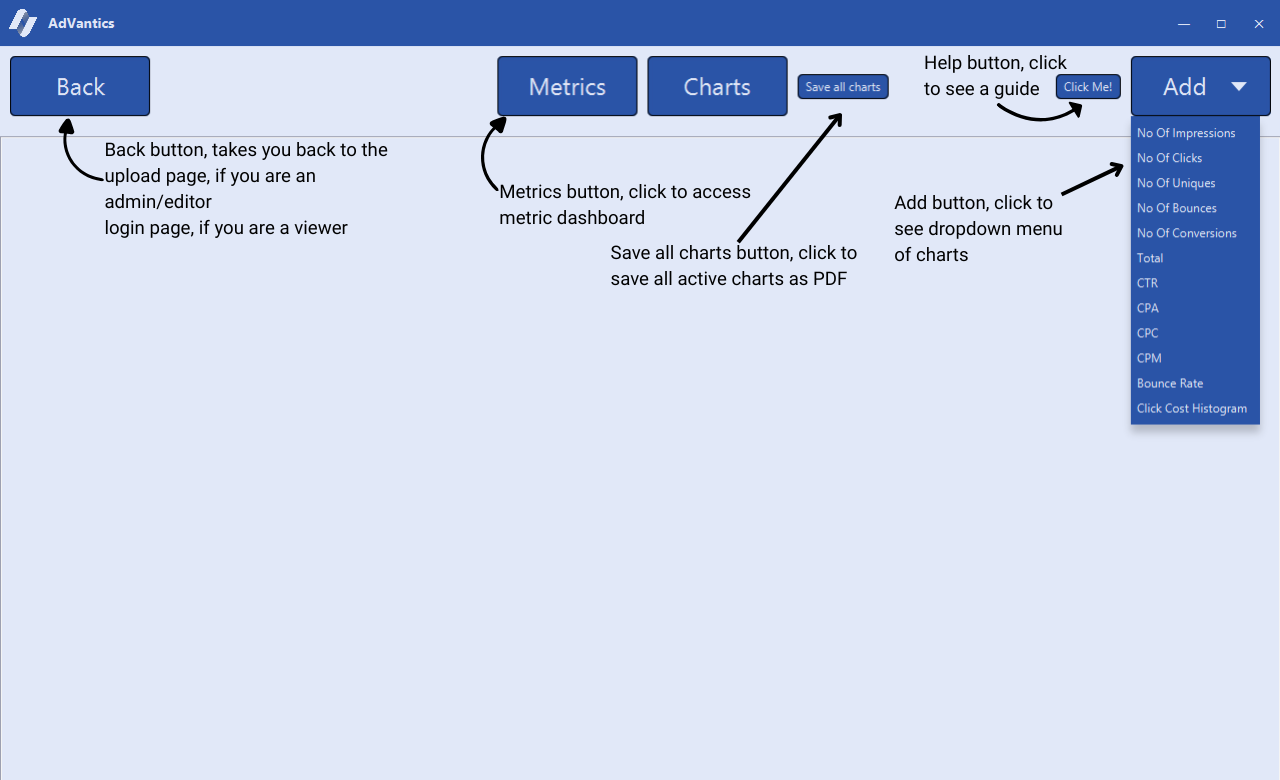
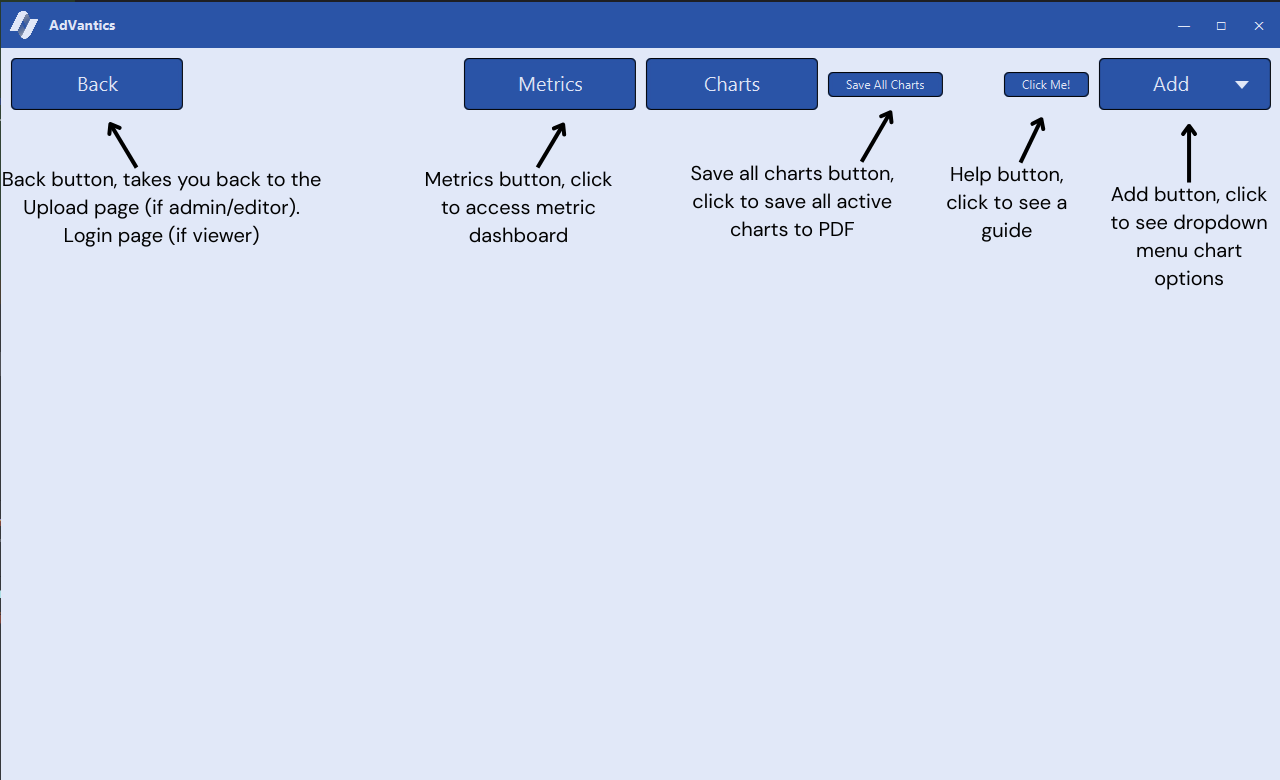
fix: x-axis overcrowding fix and guide pics updated

Changed region(s): [[0.3125, 0.0, 1.0, 0.5538], [0.0, 0.0, 0.3125, 0.3385]]

diff --git a/src/main/java/com/university/grp20/controller/HelpGuideController.java b/src/main/java/com/university/grp20/controller/HelpGuideController.java
@@ -34,14 +34,14 @@ public class HelpGuideController {
         switch (pageType) {
             case "Login" -> {
                 imageList.add(new Image(String.valueOf(getClass().getResource("/images/guide-pics/login-pane/1. Login Page.png"))));
-                imageList.add(new Image(String.valueOf(getClass().getResource("/images/guide-pics/login-pane/2. Login Page w Deets.png"))));
+                imageList.add(new Image(String.valueOf(getClass().getResource("/images/guide-pics/login-pane/2. Login Page Filled.png"))));
                 numImg = imageList.size();
             }
             case "Upload" -> {
-                imageList.add(new Image(String.valueOf(getClass().getResource("/images/guide-pics/file-upload-pane/1. File Upload Page.png"))));
-                imageList.add(new Image(String.valueOf(getClass().getResource("/images/guide-pics/file-upload-pane/2. File Upload Chooser.png"))));
-                imageList.add(new Image(String.valueOf(getClass().getResource("/images/guide-pics/file-upload-pane/3. File Upload Page Completed.png"))));
-                imageList.add(new Image(String.valueOf(getClass().getResource("/images/guide-pics/file-upload-pane/4. Upload in progress.png"))));
+                imageList.add(new Image(String.valueOf(getClass().getResource("/images/guide-pics/file-upload-pane/1. Upload Page.png"))));
+                imageList.add(new Image(String.valueOf(getClass().getResource("/images/guide-pics/file-upload-pane/2. Windows File Explorer.png"))));
+                imageList.add(new Image(String.valueOf(getClass().getResource("/images/guide-pics/file-upload-pane/3. Upload Page Filled.png"))));
+                imageList.add(new Image(String.valueOf(getClass().getResource("/images/guide-pics/file-upload-pane/4. Upload Page Progress Bar.png"))));
                 numImg = imageList.size();
             }
             case "Metrics" -> {
@@ -50,20 +50,22 @@ public class HelpGuideController {
             }
             case "Charts" -> {
                 imageList.add(new Image(String.valueOf(getClass().getResource("/images/guide-pics/charts-pane/1. Charts Page.png"))));
-                imageList.add(new Image(String.valueOf(getClass().getResource("/images/guide-pics/charts-pane/2. Active Charts.png"))));
-                imageList.add(new Image(String.valueOf(getClass().getResource("/images/guide-pics/charts-pane/3. Histogram Bin Prompt.png"))));
-                imageList.add(new Image(String.valueOf(getClass().getResource("/images/guide-pics/charts-pane/4. Histogram Bin Prompt Filled.png"))));
+                imageList.add(new Image(String.valueOf(getClass().getResource("/images/guide-pics/charts-pane/2. Charts Page with 1 Chart.png"))));
+                imageList.add(new Image(String.valueOf(getClass().getResource("/images/guide-pics/charts-pane/3. Print Chart.png"))));
+                imageList.add(new Image(String.valueOf(getClass().getResource("/images/guide-pics/charts-pane/4. Histogram Bin Prompt.png"))));
                 imageList.add(new Image(String.valueOf(getClass().getResource("/images/guide-pics/charts-pane/5. Histogram Displayed.png"))));
                 numImg = imageList.size();
             }
             case "Settings" -> {
-                imageList.add(new Image(String.valueOf(getClass().getResource("/images/guide-pics/settings-pane/1. Settings Page.png"))));
-                imageList.add(new Image(String.valueOf(getClass().getResource("/images/guide-pics/settings-pane/2. Metrics Settings.png"))));
+                imageList.add(new Image(String.valueOf(getClass().getResource("/images/guide-pics/settings-pane/1. Theme Settings.png"))));
+                imageList.add(new Image(String.valueOf(getClass().getResource("/images/guide-pics/settings-pane/2. Metric Settings.png"))));
                 imageList.add(new Image(String.valueOf(getClass().getResource("/images/guide-pics/settings-pane/3. User Settings.png"))));
                 imageList.add(new Image(String.valueOf(getClass().getResource("/images/guide-pics/settings-pane/4. Export Settings.png"))));
-                imageList.add(new Image(String.valueOf(getClass().getResource("/images/guide-pics/settings-pane/5. Theme Settings.png"))));
-                imageList.add(new Image(String.valueOf(getClass().getResource("/images/guide-pics/settings-pane/6. Dark Mode View.png"))));
-                imageList.add(new Image(String.valueOf(getClass().getResource("/images/guide-pics/settings-pane/7. High Contrast View.png"))));
+                imageList.add(new Image(String.valueOf(getClass().getResource("/images/guide-pics/settings-pane/Colourblind view.png"))));
+                imageList.add(new Image(String.valueOf(getClass().getResource("/images/guide-pics/settings-pane/Purple view.png"))));
+                imageList.add(new Image(String.valueOf(getClass().getResource("/images/guide-pics/settings-pane/Dark mode view.png"))));
+                imageList.add(new Image(String.valueOf(getClass().getResource("/images/guide-pics/settings-pane/High contrast view.png"))));
+
                 numImg = imageList.size();
             }
             case "Metric-Filter" -> {

diff --git a/src/main/java/com/university/grp20/model/GenerateChartService.java b/src/main/java/com/university/grp20/model/GenerateChartService.java
@@ -312,7 +312,7 @@ public class GenerateChartService {
           }
         }
       }
-      if (timeGranularity != null && timeGranularity.equals("Per Day")) {
+      if (timeGranularity == null || timeGranularity.equals("Per Day")) {
         int step = Math.max(1, categories.size() / 15);
         for (int i = 0; i < categories.size(); i++) {
           String label = categories.get(i).toString();
